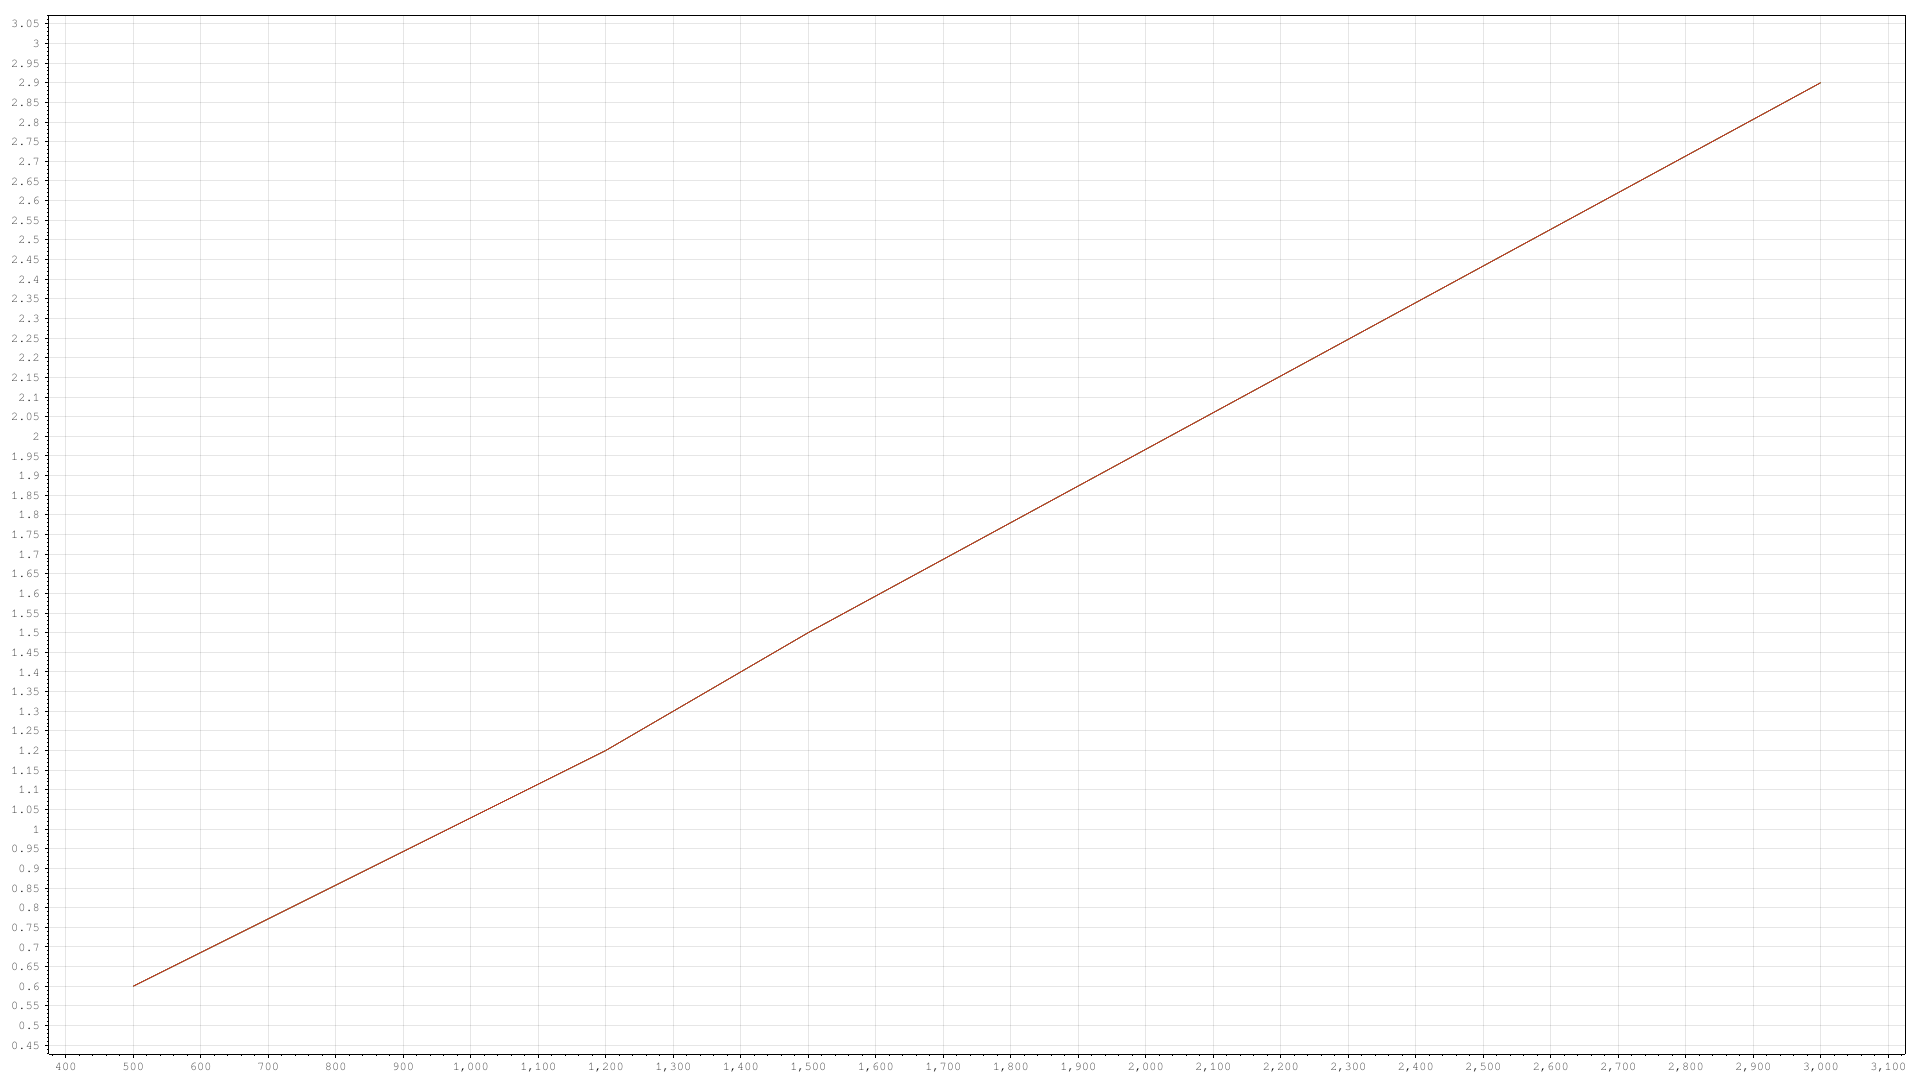
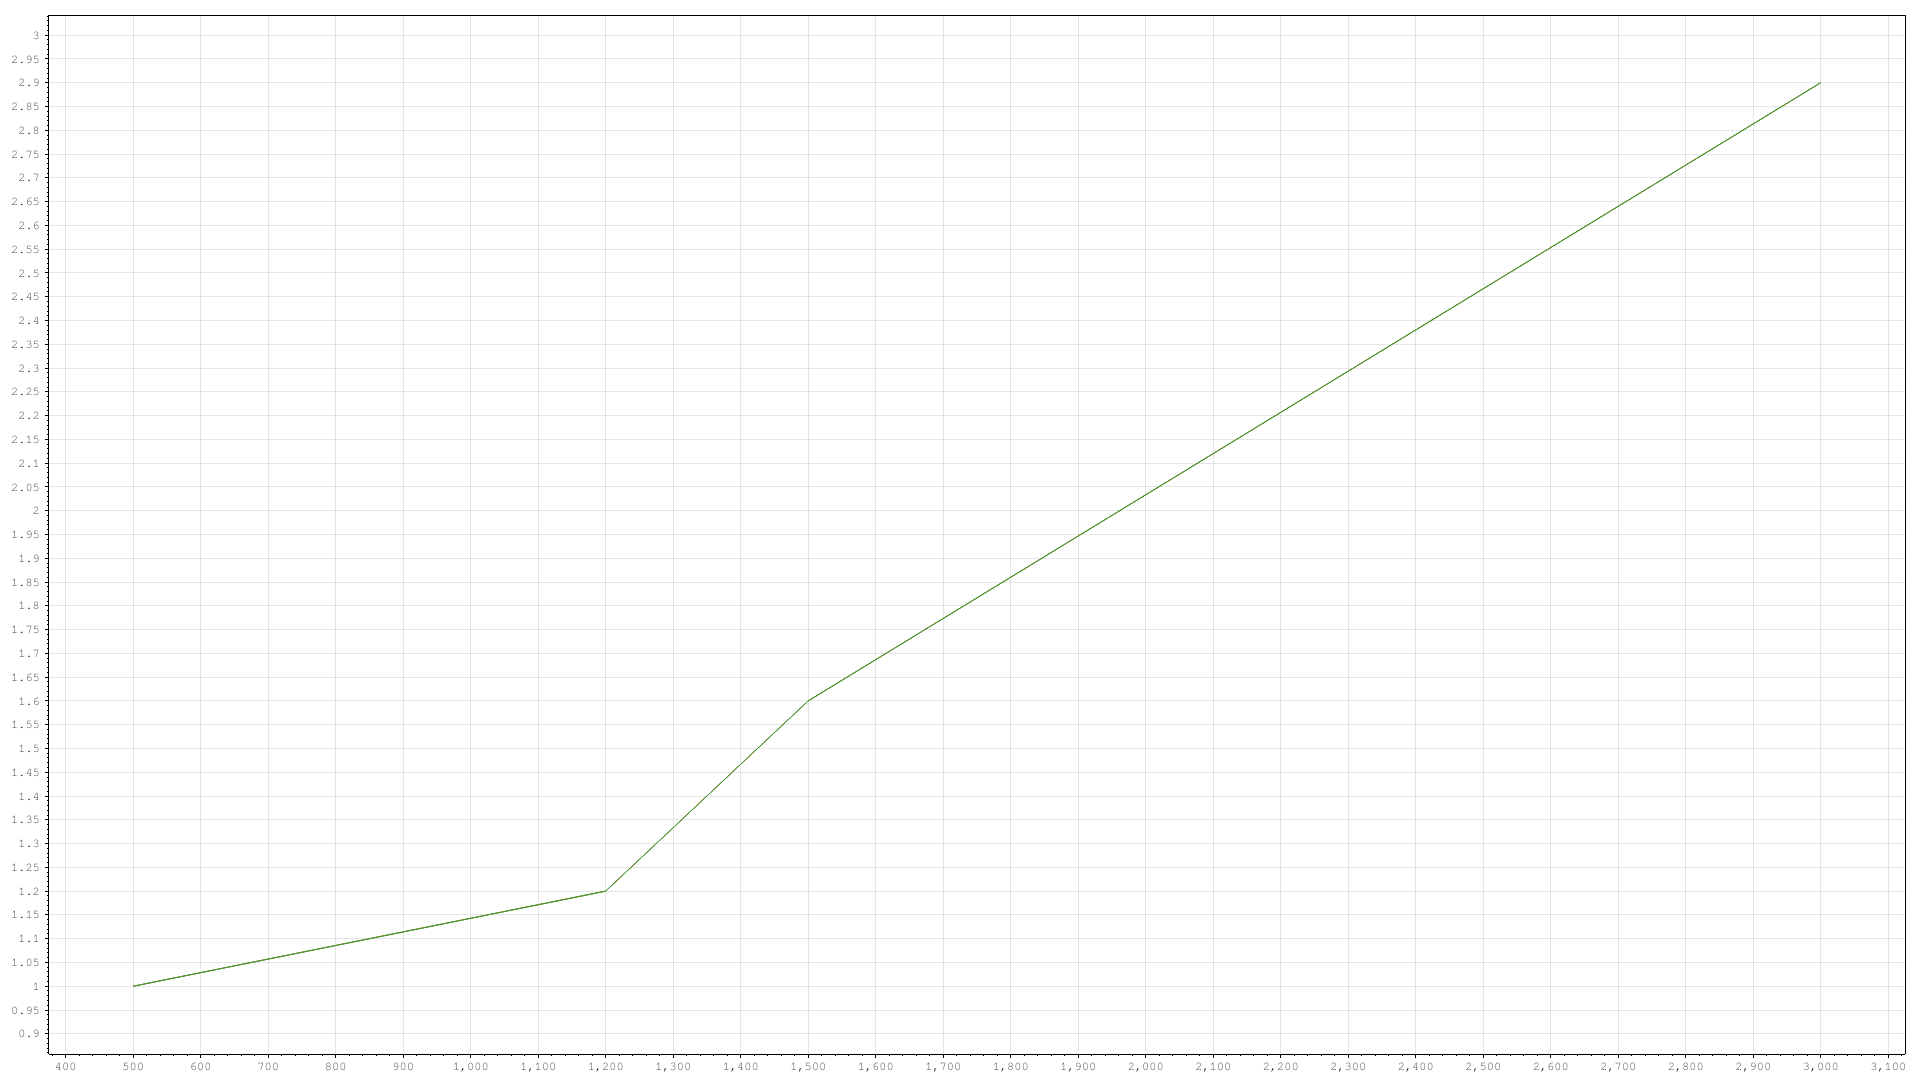
saving before gpt

diff --git a/pset1/graph.cs b/pset1/graph.cs
@@ -6,8 +6,8 @@ public class Graphing {
 
     // diving the values in the array into a smaller array that can be graphed individually
     public decimal[] runTimeSpit(decimal[] runTime, int startingIndex, decimal[] plotPoints) {
-        for(int i = startingIndex; i < (runTime.Length / 3); i++){
-            plotPoints[i] = runTime[i]; 
+        for(int p = startingIndex; p < (runTime.Length / 3); p++){
+            plotPoints[p] = runTime[p]; 
         }
         return plotPoints;
     }
@@ -15,12 +15,10 @@ public class Graphing {
     public void sketchGraph(decimal[] runTime, decimal[] plotPoints, int[] n){
         
         ScottPlot.Plot complexityGraph = new();
-        int i = 0;
 
-        while(i <= 12) { 
-            decimal[] curLine = runTimeSpit(runTime, i, plotPoints);
+        for(int i = 0; i < 3; i ++){ 
+            decimal[] curLine = runTimeSpit(runTime, i * 4, plotPoints);
             complexityGraph.Add.ScatterLine(n, curLine);
-            i += 4;
         }
         
         complexityGraph.SavePng("graph.png", 1920, 1080);

diff --git a/pset1/obj/Debug/net8.0/pset1.AssemblyInfo.cs b/pset1/obj/Debug/net8.0/pset1.AssemblyInfo.cs
@@ -13,7 +13,7 @@ using System.Reflection;
 [assembly: System.Reflection.AssemblyCompanyAttribute("pset1")]
 [assembly: System.Reflection.AssemblyConfigurationAttribute("Debug")]
 [assembly: System.Reflection.AssemblyFileVersionAttribute("1.0.0.0")]
-[assembly: System.Reflection.AssemblyInformationalVersionAttribute("1.0.0+131f1852480c8a10361706a16c6737bc01cbf9b8")]
+[assembly: System.Reflection.AssemblyInformationalVersionAttribute("1.0.0+62f1dc6bcda8332fb082395653be6372caf1c6f0")]
 [assembly: System.Reflection.AssemblyProductAttribute("pset1")]
 [assembly: System.Reflection.AssemblyTitleAttribute("pset1")]
 [assembly: System.Reflection.AssemblyVersionAttribute("1.0.0.0")]
